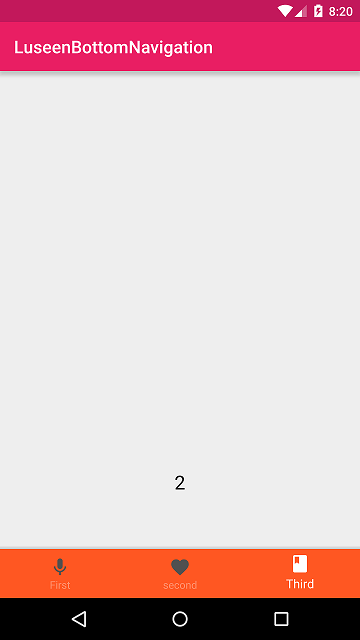
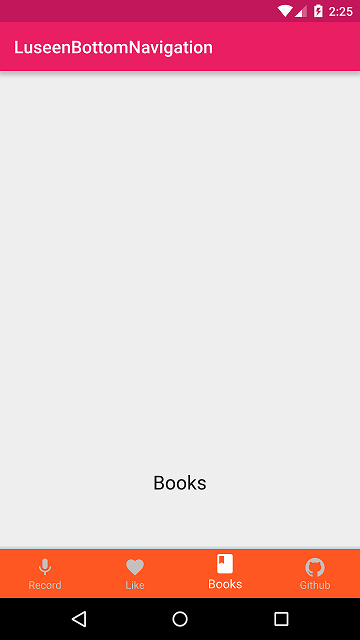
Some fixes

diff --git a/app/src/main/java/com/luseen/luseenbottomnavigation/BottomNavigation/BottomNavigation.java b/app/src/main/java/com/luseen/luseenbottomnavigation/BottomNavigation/BottomNavigation.java
@@ -1,10 +1,10 @@
-package com.luseen.luseenbottomnavigation;
+package com.luseen.luseenbottomnavigation.BottomNavigation;
 
 import android.animation.Animator;
+import android.animation.AnimatorListenerAdapter;
 import android.content.Context;
 import android.os.Build;
 import android.support.v4.content.ContextCompat;
-import android.support.v4.view.ViewCompat;
 import android.util.AttributeSet;
 import android.util.Log;
 import android.util.TypedValue;
@@ -16,6 +16,8 @@ import android.widget.FrameLayout;
 import android.widget.ImageView;
 import android.widget.LinearLayout;
 import android.widget.TextView;
+
+import com.luseen.luseenbottomnavigation.R;
 
 import java.util.ArrayList;
 import java.util.List;
@@ -64,7 +66,6 @@ public class BottomNavigation extends FrameLayout {
             setElevation(getResources().getDimension(R.dimen.bottom_navigation_elevation));
         }
         setLayoutParams(params);
-        Log.e("onMeasure", "onMeasure");
     }
 
     @Override
@@ -106,6 +107,8 @@ public class BottomNavigation extends FrameLayout {
             }
             icon.setImageResource(bottomNavigationItems.get(i).getImageResource());
             icon.setColorFilter(ContextCompat.getColor(context, i == 0 ? R.color.colorActive : R.color.colorInactive));
+            icon.setScaleX((float) 1.1);
+            icon.setScaleY((float) 1.1);
             title.setText(bottomNavigationItems.get(i).getTitle());
             LayoutParams itemParams = new LayoutParams(itemWidth, itemHeight);
             items.addView(view, itemParams);
@@ -119,9 +122,11 @@ public class BottomNavigation extends FrameLayout {
 
     }
 
-    public void addItem(BottomNavigationItem item) {
+    public void addTab(BottomNavigationItem item) {
         bottomNavigationItems.add(item);
     }
+
+
 
     private void onBottomNavigationItemClick(final int itemIndex) {
         if (currentItem == itemIndex) {
@@ -143,37 +148,28 @@ public class BottomNavigation extends FrameLayout {
                 BottomNavigationUtils.changeTextSize(title, textInactiveSize, textActiveSize);
                 BottomNavigationUtils.imageColorChange(icon, itemInactiveColor, itemActiveColor);
                 BottomNavigationUtils.changeTopPadding(view, viewInactivePaddingTop, viewActivePaddingTop);
+                icon.animate()
+                        .setDuration(150)
+                        .scaleX((float) 1.1)
+                        .scaleY((float) 1.1)
+                        .start();
                 int centerX = (int) viewList.get(itemIndex).getX() + viewList.get(itemIndex).getWidth() / 2;
                 int centerY = viewList.get(itemIndex).getHeight() / 2;
                 int finalRadius = Math.max(getWidth(), getHeight());
                 if (android.os.Build.VERSION.SDK_INT >= android.os.Build.VERSION_CODES.LOLLIPOP) {
                     backgroundColorTemp.setBackgroundColor(bottomNavigationItems.get(itemIndex).getColor());
                     Animator changeBackgroundColor = ViewAnimationUtils.createCircularReveal(backgroundColorTemp, centerX, centerY, 0, finalRadius);
-                    changeBackgroundColor.addListener(new Animator.AnimatorListener() {
-                        @Override
-                        public void onAnimationStart(Animator animation) {
-
-                        }
-
+                    changeBackgroundColor.addListener(new AnimatorListenerAdapter() {
                         @Override
                         public void onAnimationEnd(Animator animation) {
+                            super.onAnimationEnd(animation);
                             setBackgroundColor(bottomNavigationItems.get(itemIndex).getColor());
-                        }
-
-                        @Override
-                        public void onAnimationCancel(Animator animation) {
-
-                        }
-
-                        @Override
-                        public void onAnimationRepeat(Animator animation) {
-
                         }
                     });
                     changeBackgroundColor.start();
                 } else {
                     BottomNavigationUtils.backgroundColorChange
-                            (this,bottomNavigationItems.get(currentItem).getColor(),bottomNavigationItems.get(itemIndex).getColor());
+                            (this, bottomNavigationItems.get(currentItem).getColor(), bottomNavigationItems.get(itemIndex).getColor());
                 }
             } else if (i == currentItem) {
                 View view = viewList.get(i).findViewById(R.id.bottom_navigation_container);
@@ -183,6 +179,11 @@ public class BottomNavigation extends FrameLayout {
                 BottomNavigationUtils.changeTopPadding(view, viewActivePaddingTop, viewInactivePaddingTop);
                 BottomNavigationUtils.changeTextColor(title, itemActiveColor, itemInactiveColor);
                 BottomNavigationUtils.changeTextSize(title, textActiveSize, textInactiveSize);
+                icon.animate()
+                        .setDuration(150)
+                        .scaleX(1)
+                        .scaleY(1)
+                        .start();
             }
         }
 
@@ -190,7 +191,6 @@ public class BottomNavigation extends FrameLayout {
             onBottomNavigationItemClickListener.onNavigationItemClick(itemIndex);
         currentItem = itemIndex;
     }
-
 
     //setup interface for item onClick
 

diff --git a/app/src/main/java/com/luseen/luseenbottomnavigation/MainActivity.java b/app/src/main/java/com/luseen/luseenbottomnavigation/MainActivity.java
@@ -1,11 +1,11 @@
 package com.luseen.luseenbottomnavigation;
 
-import android.support.v7.app.AppCompatActivity;
 import android.os.Bundle;
-import android.util.Log;
+import android.support.v7.app.AppCompatActivity;
 import android.widget.TextView;
 
-import org.w3c.dom.Text;
+import com.luseen.luseenbottomnavigation.BottomNavigation.BottomNavigation;
+import com.luseen.luseenbottomnavigation.BottomNavigation.BottomNavigationItem;
 
 public class MainActivity extends AppCompatActivity {
 
@@ -16,26 +16,42 @@ public class MainActivity extends AppCompatActivity {
     protected void onCreate(Bundle savedInstanceState) {
         super.onCreate(savedInstanceState);
         setContentView(R.layout.activity_main);
-        t = (TextView)findViewById(R.id.textView);
-        bottomNavigation = (BottomNavigation)findViewById(R.id.bottomNavigation);
+        t = (TextView) findViewById(R.id.textView);
+        bottomNavigation = (BottomNavigation) findViewById(R.id.bottomNavigation);
 
         BottomNavigationItem bottomNavigationItem = new BottomNavigationItem
-                ("First",getResources().getColor(R.color.firstColor),R.drawable.ic_mic_black_24dp);
+                ("Record", getResources().getColor(R.color.firstColor), R.drawable.ic_mic_black_24dp);
         BottomNavigationItem bottomNavigationItem1 = new BottomNavigationItem
-                ("second",getResources().getColor(R.color.secondColor),R.drawable.ic_favorite_black_24dp);
+                ("Like", getResources().getColor(R.color.secondColor), R.drawable.ic_favorite_black_24dp);
         BottomNavigationItem bottomNavigationItem2 = new BottomNavigationItem
-                ("Third",getResources().getColor(R.color.thirdColor),R.drawable.ic_book_black_24dp);
+                ("Books", getResources().getColor(R.color.thirdColor), R.drawable.ic_book_black_24dp);
+        BottomNavigationItem bottomNavigationItem3 = new BottomNavigationItem
+                ("Github", getResources().getColor(R.color.fourthColor), R.drawable.github_circle);
 
-        bottomNavigation.addItem(bottomNavigationItem);
-        bottomNavigation.addItem(bottomNavigationItem1);
-        bottomNavigation.addItem(bottomNavigationItem2);
+        bottomNavigation.addTab(bottomNavigationItem);
+        bottomNavigation.addTab(bottomNavigationItem1);
+        bottomNavigation.addTab(bottomNavigationItem2);
+        bottomNavigation.addTab(bottomNavigationItem3);
 
         //Test Push
 
         bottomNavigation.setOnBottomNavigationItemClickListener(new BottomNavigation.OnBottomNavigationItemClickListener() {
             @Override
             public void onNavigationItemClick(int index) {
-                t.setText(index+"");
+                switch (index) {
+                    case 0:
+                        t.setText("Record");
+                        break;
+                    case 1:
+                        t.setText("Like");
+                        break;
+                    case 2:
+                        t.setText("Books");
+                        break;
+                    case 3:
+                        t.setText("Github");
+                        break;
+                }
             }
         });
     }

diff --git a/app/src/main/java/com/luseen/luseenbottomnavigation/BottomNavigation/BottomNavigationUtils.java b/app/src/main/java/com/luseen/luseenbottomnavigation/BottomNavigation/BottomNavigationUtils.java
@@ -1,4 +1,4 @@
-package com.luseen.luseenbottomnavigation;
+package com.luseen.luseenbottomnavigation.BottomNavigation;
 
 import android.animation.ArgbEvaluator;
 import android.animation.ValueAnimator;

diff --git a/app/src/main/java/com/luseen/luseenbottomnavigation/BottomNavigation/BottomNavigationItem.java b/app/src/main/java/com/luseen/luseenbottomnavigation/BottomNavigation/BottomNavigationItem.java
@@ -1,4 +1,4 @@
-package com.luseen.luseenbottomnavigation;
+package com.luseen.luseenbottomnavigation.BottomNavigation;
 
 /**
  * Created by Chatikyan on 18.03.2016.
